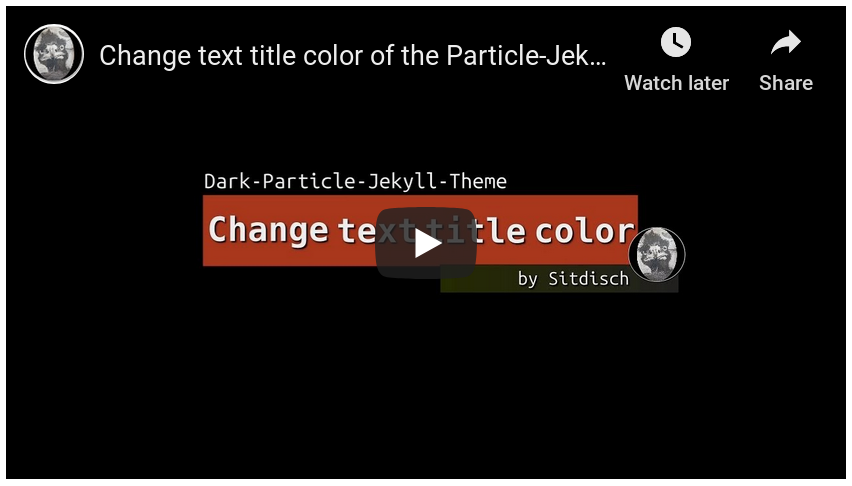
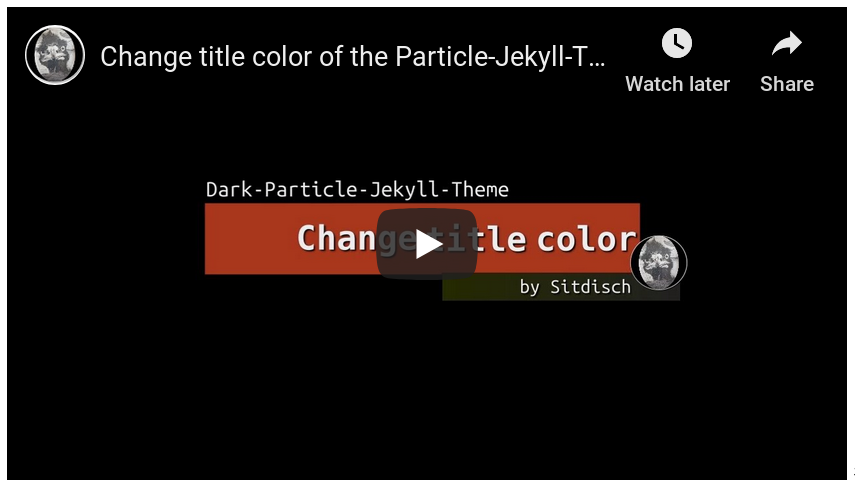
adapt README.md

diff --git a/README.md b/README.md
@@ -6,7 +6,7 @@
 ![Second Page](assets/img/Dark_Particle_2.png)
 ![Third Page](assets/img/Dark_Particle_3.png)
 
-This is a simple dark jekyll theme blueprint. You can use it as a start template to make your web appearance and portfolio awesome :smile:. It heavily based on the magnificent work of [Stephen Arsenault](https://github.com/s-arsenault/s-arsenault.github.io) and [Nathan Randecker](https://github.com/nrandecker/particle).
+This is a simple dark jekyll theme blueprint. For a light version look [here](https://github.com/mythemeway/Light-Particle). You can use it as a start template to make your web appearance and portfolio awesome :smile:. It heavily based on the magnificent work of [Stephen Arsenault](https://github.com/s-arsenault/s-arsenault.github.io) and [Nathan Randecker](https://github.com/nrandecker/particle).
 
 ## Table of Contents
 
@@ -40,14 +40,14 @@ Here is a procedure how to publicize your pages at GitHub Pages:
 
 Consider: your changes maybe take a while to occur at GitHub Pages
 
-In the following video you can see an example setup.
+In the following video can you see an example setup.
 [![Setup at GitHub Pages](assets/img/setup_at_github_pages.png)](https://youtu.be/TBFztsehFHU)
 
 ## Local Running
 
 In order to compile the assets and run the pages locally you will need to do the following:
 
-- Install [NodeJS and npm](https://nodejs.org/en/download/package-manager/)
+- install [NodeJS and npm](https://nodejs.org/en/download/package-manager/)
   - for Ubuntu:
     - `sudo apt install nodejs`
     - `sudo apt install npm`
@@ -69,7 +69,7 @@ In order to compile the assets and run the pages locally you will need to do the
   - if you get this kind of trouble "`you Have Already Activated...`" look [here](https://wholesome-sj.github.io/2019-07-15-jeklly-page-gem-errors-handling-%27you-have-already-activated%27) and do e.g. `sudo gem uninstall liquid`
 - if it works, you will find your pages at `http://localhost:3000`
 
-In the following video you can see an example how to run this theme locally.
+In the following video can you see an example how to run this theme locally.
 [![Run locally](assets/img/running_locally.png)](https://youtu.be/Krg_fIaFto0)
 
 ## Site and User Settings
@@ -107,8 +107,8 @@ Consider: the icons of Twitter etc. will occur automatically, if you set a usern
 - Appearance Customization 
   - edit the scss files located at `src/styles/` 
     - Consider: maybe you have to run `sudo gulp` again to see your changes 
-    - In the following video you can see an example how to change the color of the text title of your pages.
-      [![Change color](assets/img/change_color.png)](https://youtu.be/uzld1wBOfag)
+    - In the following video can you see an example how to change the title color of your pages.
+      [![Change color](assets/img/change_color.png)](https://youtu.be/FzXewJV8JkI)
 
 ## Credits
 
